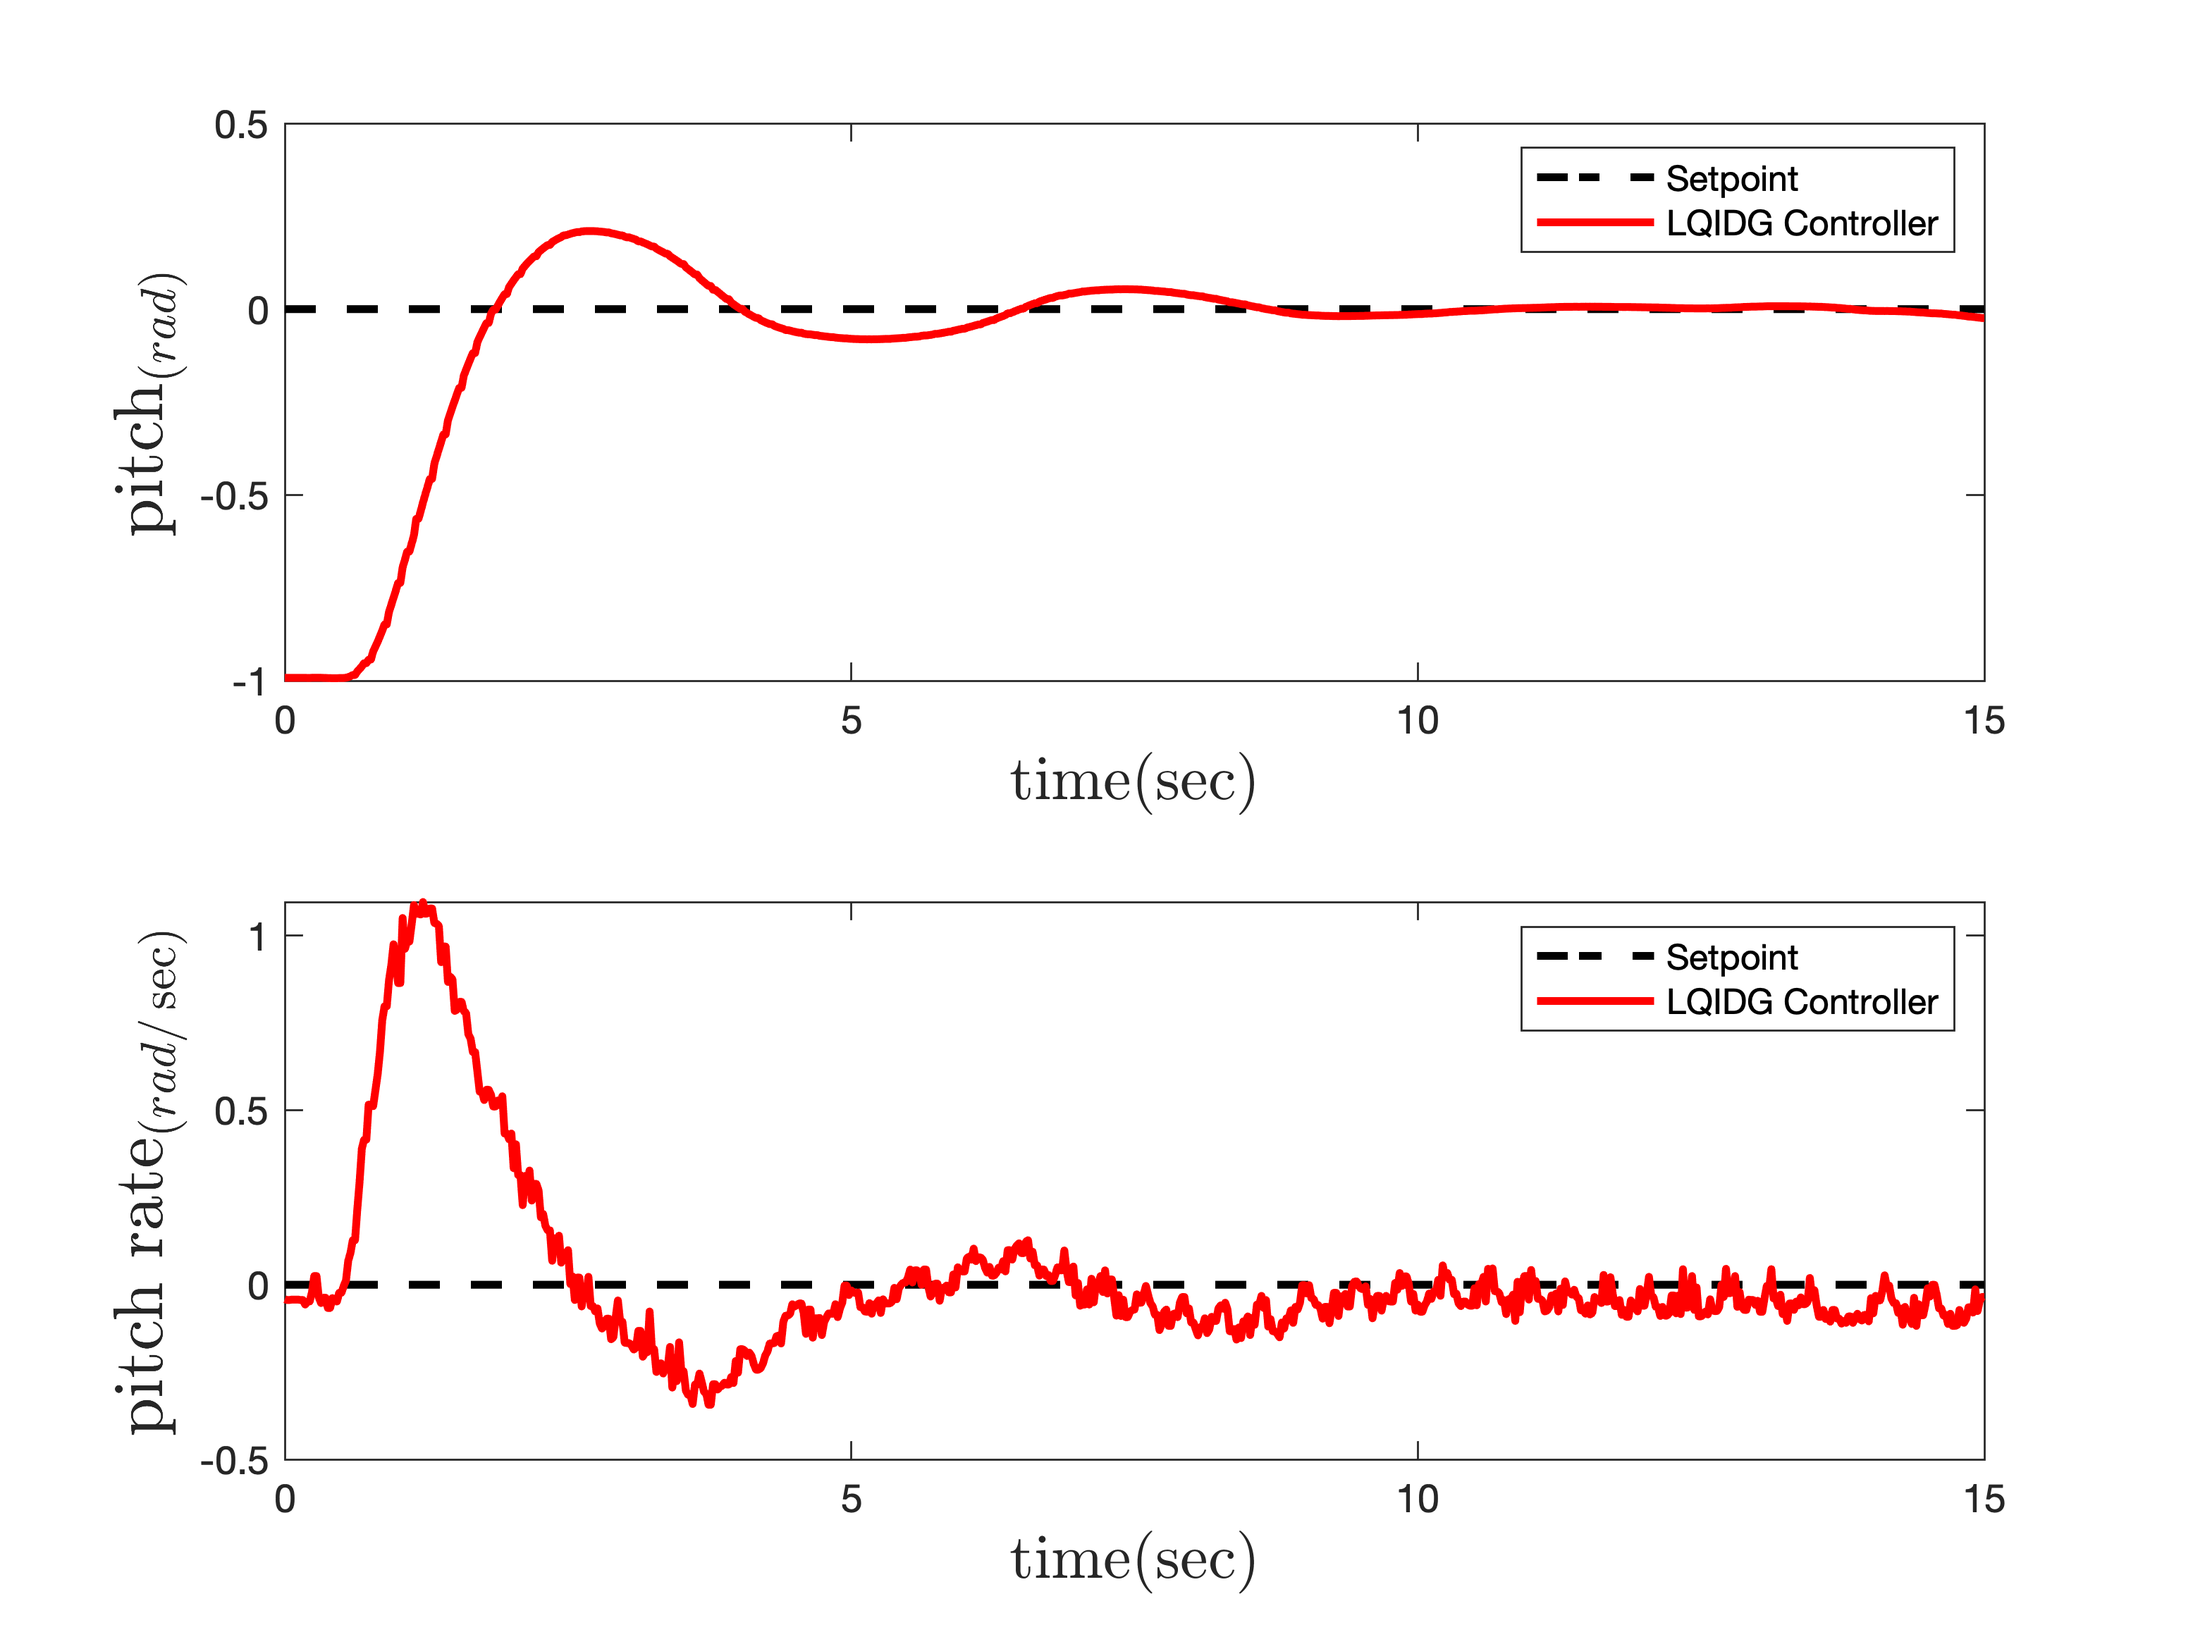
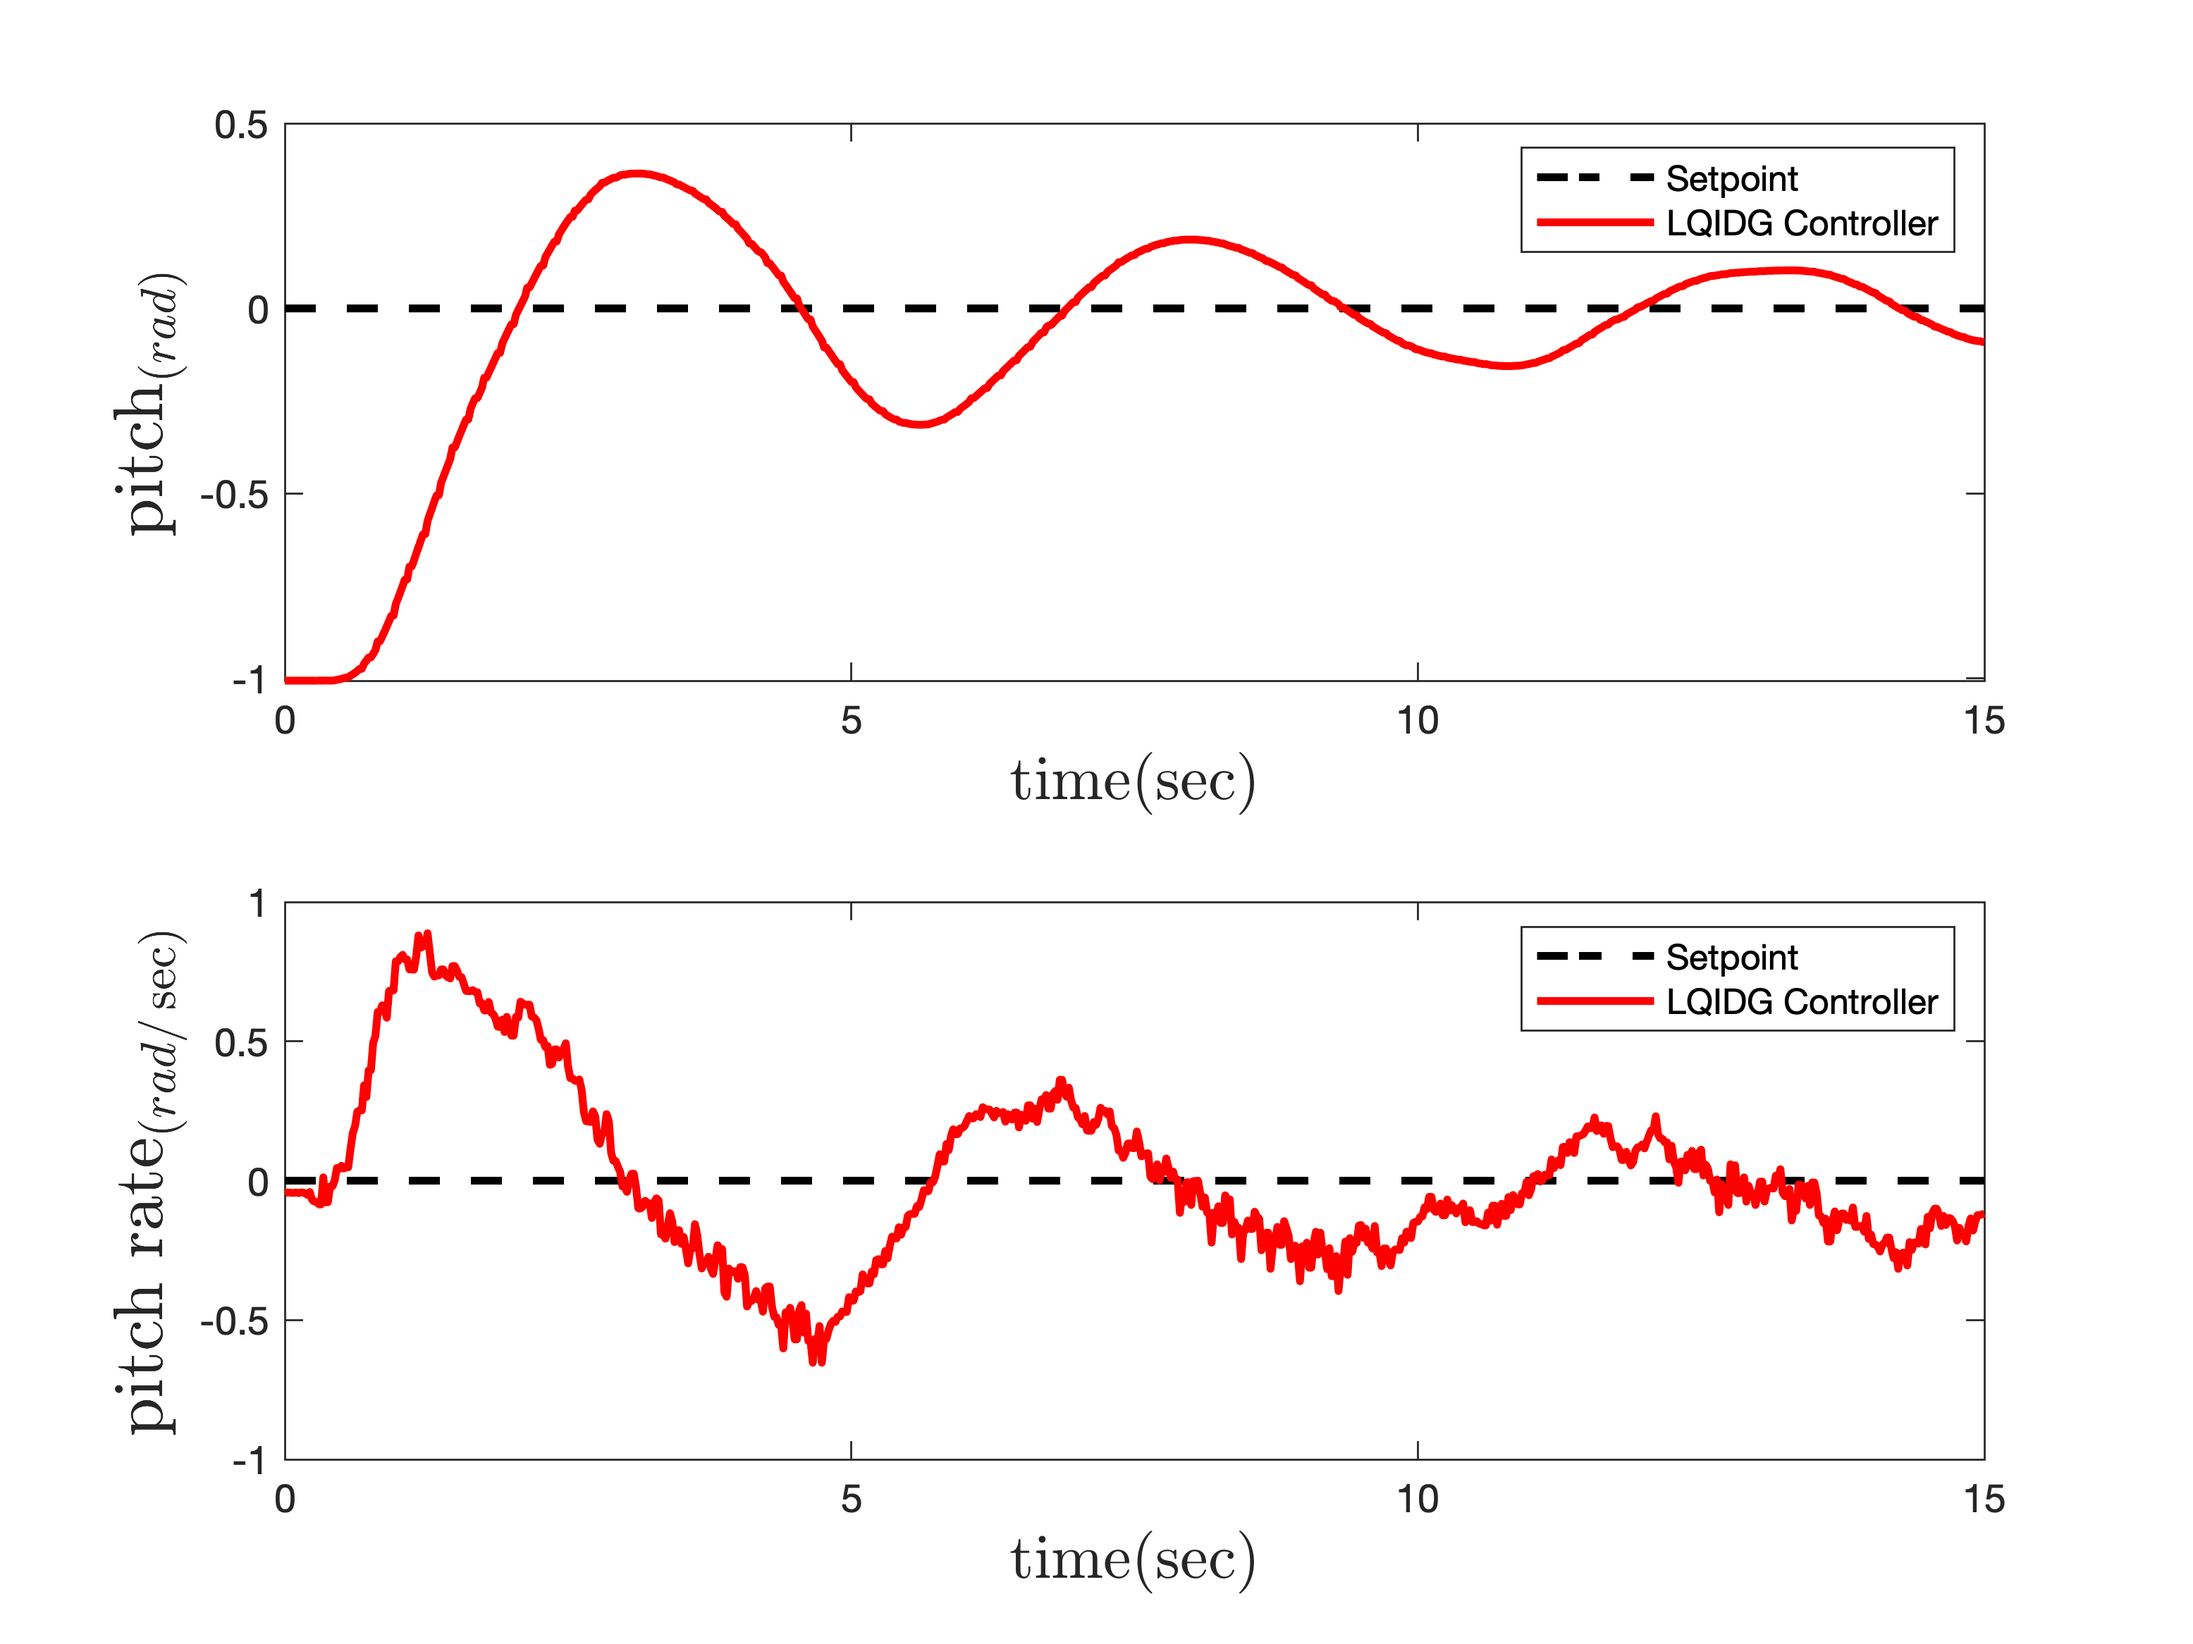
add omega and change code but still have isuae

diff --git a/Code/Simulink/Quadcopter/Calibration/LQIDG/Pitch/ploter.m b/Code/Simulink/Quadcopter/Calibration/LQIDG/Pitch/ploter.m
@@ -2,7 +2,7 @@ clear;
 clc;
 %% plot data %%
 time = 0:0.02:15; % set time from start
-load('pitch.mat') % load data
+load('pitch_LIDG.mat') % load data
 sim_time = 0:0.02:20;
 % pitch
 subplot(2,1,1);
